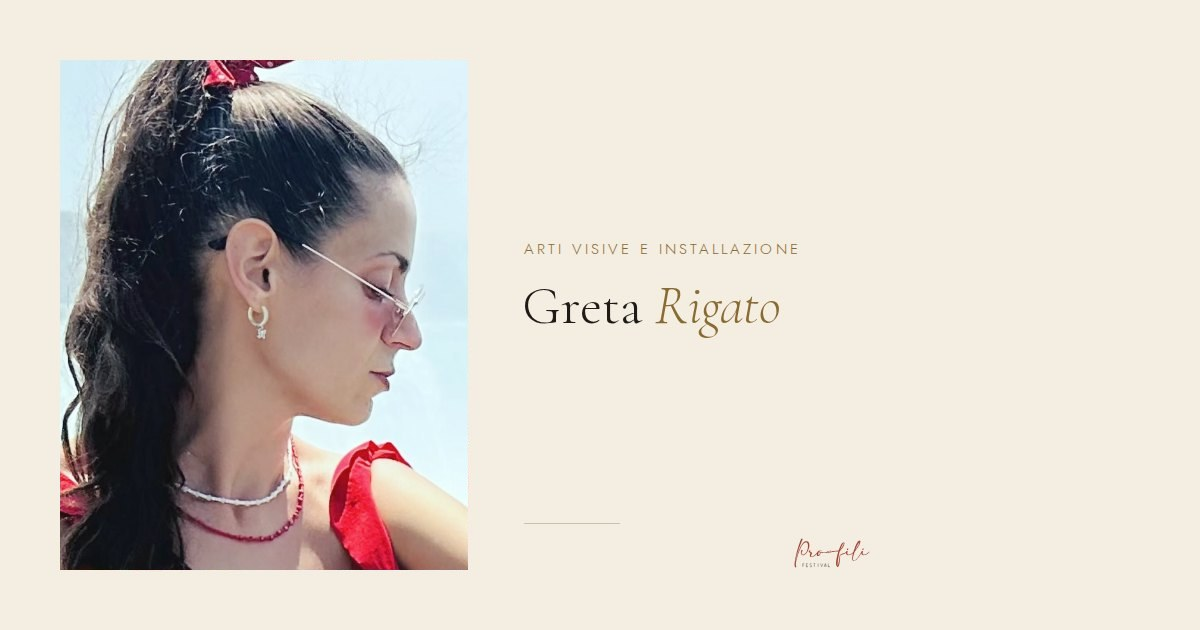
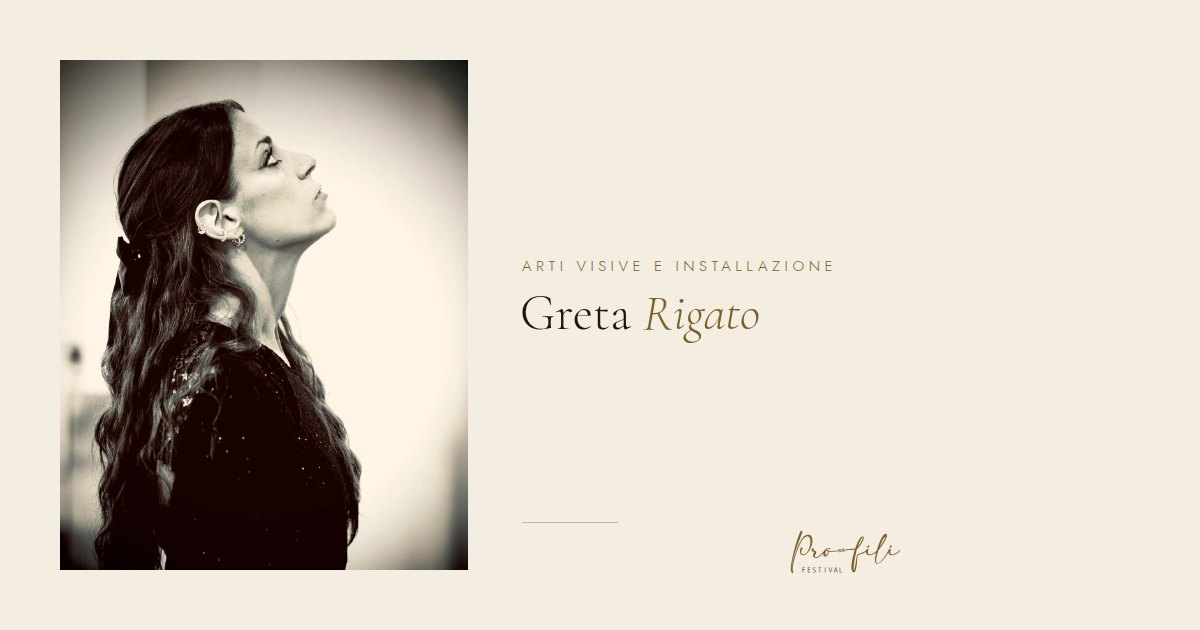
Greta Rigato: nuova foto di profilo (#52)
Claude-Session: https://claude.ai/code/session_01WuBrQzAiBeGJU4FicGTrQ8

diff --git a/index.html b/index.html
@@ -263,7 +263,7 @@
         <p>Danza perché è il modo in cui pensa. In IANUA cura la produzione.</p>
       </figure></a>
       <a class="person rv" data-tinta="oro" href="artisti/greta-rigato.html"><figure>
-        <div class="ph" data-knot="low"><img src="assets/img/greta-profili.webp" srcset="assets/img/greta-profili_sm.webp 800w, assets/img/greta-profili.webp 1280w" sizes="(max-width:640px) 46vw, (max-width:1000px) 30vw, 220px" alt="Ritratto di Greta Rigato" width="1280" height="1600" loading="lazy"></div>
+        <div class="ph" data-knot="low"><img src="assets/img/greta-profili.webp" srcset="assets/img/greta-profili_sm.webp 800w, assets/img/greta-profili.webp 1280w" sizes="(max-width:640px) 46vw, (max-width:1000px) 30vw, 220px" alt="Ritratto di Greta Rigato, di profilo con lo sguardo verso l'alto" width="1280" height="1600" loading="lazy"></div>
         <h3>Greta Rigato</h3><p class="role">Arti visive e installazione</p>
         <p>Crea connessioni tra linguaggi e persone. In IANUA cura la comunicazione.</p>
       </figure></a>

diff --git a/artisti/greta-rigato.html b/artisti/greta-rigato.html
@@ -69,7 +69,7 @@
 <section class="block paper" data-world="paper">
   <div class="wrap article">
     <aside class="rv">
-      <div class="ph artist-ph"><img src="../assets/img/greta-profili.webp" srcset="../assets/img/greta-profili_sm.webp 800w, ../assets/img/greta-profili.webp 1280w" sizes="(max-width:960px) 90vw, 300px" alt="Ritratto di Greta Rigato" width="1280" height="1600"></div>
+      <div class="ph artist-ph"><img src="../assets/img/greta-profili.webp" srcset="../assets/img/greta-profili_sm.webp 800w, ../assets/img/greta-profili.webp 1280w" sizes="(max-width:960px) 90vw, 300px" alt="Ritratto di Greta Rigato, di profilo con lo sguardo verso l'alto" width="1280" height="1600"></div>
       <p class="muted" style="margin:-16px 0 24px;font-size:12px">Foto dell'artista</p>
       <dl>
         <dt>Disciplina</dt><dd>Arti visive, scultura e installazione</dd>
